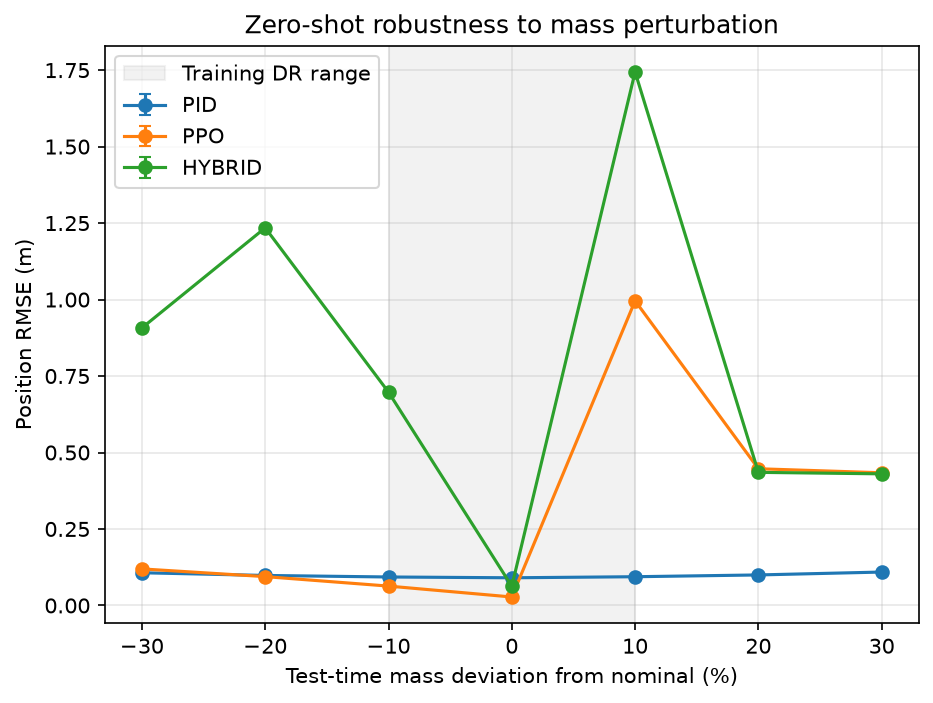
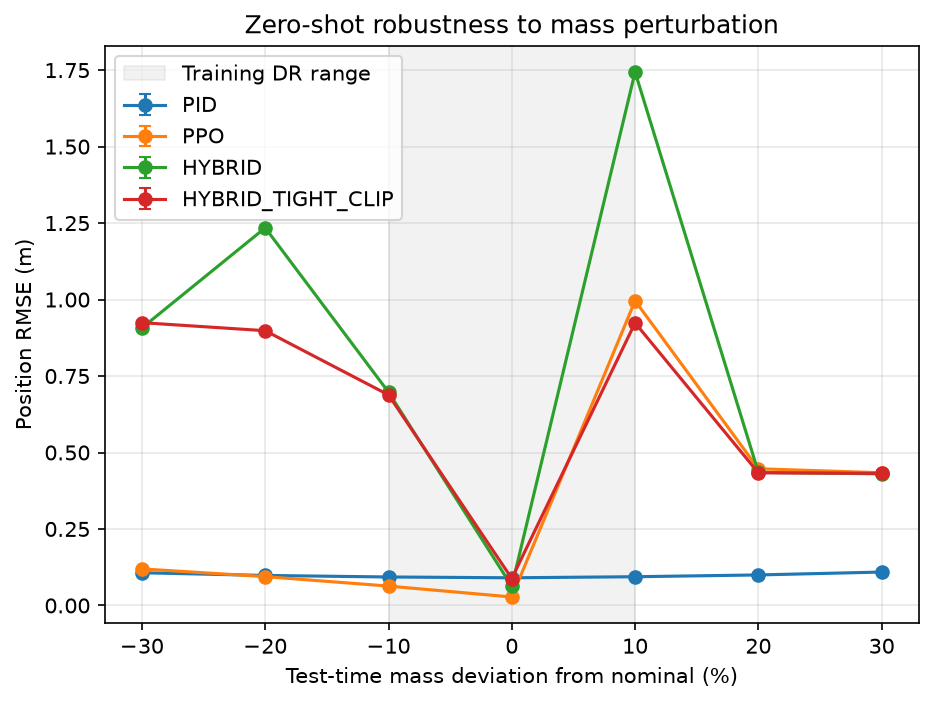
Ablation: tighter residual clip does not close the robustness gap
Tested residual_clip_fraction=0.08 (vs the original 0.2) under the same
setup. Training was much more stable (eval-reward std dropped from +-108.9
to +-9.4), but zero-shot robustness barely changed: it roughly halved the
single worst spike (+10% mass) but left every other point 5-15x worse than
PID, statistically indistinguishable from the clip=0.2 run elsewhere.

This rules out the residual bound as the dominant cause and points instead
at training budget / reward shaping as the more likely explanation -- a
narrower, better-supported conclusion than before the ablation.

Added scripts/evaluate_ablation.py (appends a labeled controller's sweep
to the existing CSV without rerunning or overwriting prior results) and
fixed a color collision in make_plots.py (a 4th unlisted controller was
silently reusing PID's color).

diff --git a/scripts/evaluate_ablation.py b/scripts/evaluate_ablation.py
@@ -1,0 +1,76 @@
+"""Appends one more controller's robustness-sweep results to an existing
+results/robustness_sweep.csv, under a custom label. Used for ablations (e.g.
+config/hybrid_tight_clip.yaml) without re-running PID/PPO/original-Hybrid,
+and without modifying evaluate_robustness.py's three-controller CLI.
+
+Reuses the exact same mass scales, episode count, and seed scheme as
+evaluate_robustness.py so the new controller is directly comparable to the
+rows already in the CSV. scripts/make_plots.py groups dynamically by
+whatever controller labels are present, so a 4th label just adds a 4th line
+to the plot automatically.
+
+Usage
+-----
+    python scripts/evaluate_ablation.py \
+        --label hybrid_tight_clip \
+        --model results/hybrid_tight_clip/best_model.zip \
+        --config config/hybrid_tight_clip.yaml \
+        --mass-scales 0.7 0.8 0.9 1.0 1.1 1.2 1.3 \
+        --episodes 10
+"""
+import os
+import sys
+import csv
+import argparse
+
+sys.path.insert(0, os.path.join(os.path.dirname(__file__), '..'))
+sys.path.insert(0, os.path.dirname(__file__))
+
+from stable_baselines3 import PPO
+
+from src.train_utils import load_config
+from evaluate_robustness import run_rl_episode
+
+
+def main():
+    parser = argparse.ArgumentParser()
+    parser.add_argument("--label", type=str, required=True,
+                         help="Controller name to write into the CSV (e.g. hybrid_tight_clip)")
+    parser.add_argument("--model", type=str, required=True)
+    parser.add_argument("--config", type=str, required=True)
+    parser.add_argument("--mass-scales", type=float, nargs="+",
+                         default=[0.7, 0.8, 0.9, 1.0, 1.1, 1.2, 1.3])
+    parser.add_argument("--episodes", type=int, default=10)
+    parser.add_argument("--output", type=str, default="results/robustness_sweep.csv")
+    args = parser.parse_args()
+
+    if not os.path.exists(args.model):
+        raise FileNotFoundError(f"{args.model} not found — train it first.")
+
+    cfg = load_config(args.config)
+    model = PPO.load(args.model)
+
+    rows = []
+    for mass_scale in args.mass_scales:
+        for ep in range(args.episodes):
+            seed = 1000 + ep  # matches evaluate_robustness.py's seed scheme
+            res = run_rl_episode(model, mass_scale, hybrid=True,
+                                 env_cfg=cfg["env"],
+                                 residual_clip=cfg["hybrid"]["residual_clip_fraction"],
+                                 seed=seed)
+            rows.append({"controller": args.label, "mass_scale": mass_scale,
+                        "episode": ep, **res})
+        print(f"[evaluate_ablation] {args.label} mass_scale={mass_scale:.2f} done")
+
+    file_exists = os.path.exists(args.output)
+    with open(args.output, "a", newline="") as f:
+        writer = csv.DictWriter(f, fieldnames=["controller", "mass_scale", "episode",
+                                               "rmse", "mean_error", "max_error"])
+        if not file_exists:
+            writer.writeheader()
+        writer.writerows(rows)
+    print(f"[evaluate_ablation] appended {len(rows)} rows to {args.output}")
+
+
+if __name__ == "__main__":
+    main()

diff --git a/scripts/make_plots.py b/scripts/make_plots.py
@@ -42,7 +42,8 @@ def main():
         grouped[r["controller"]][float(r["mass_scale"])].append(float(r["rmse"]))
 
     fig, ax = plt.subplots(figsize=(7, 5))
-    colors = {"pid": "tab:blue", "ppo": "tab:orange", "hybrid": "tab:green"}
+    colors = {"pid": "tab:blue", "ppo": "tab:orange", "hybrid": "tab:green",
+              "hybrid_tight_clip": "tab:red"}
     for controller, by_mass in grouped.items():
         mass_scales = sorted(by_mass.keys())
         means = np.array([np.mean(by_mass[m]) for m in mass_scales])

diff --git a/docs/results.md b/docs/results.md
@@ -72,6 +72,39 @@ So the hybrid controller did not inherit PID's robustness; if anything, adding t
 learned residual made the combined controller *less* robust than PID alone across
 most of the tested range.
 
+### 3.1 Ablation: does a tighter residual bound close the gap?
+
+Section 4 flagged `residual_clip_fraction=0.2` as a likely cause and proposed testing
+a tighter bound. Ran the identical setup with `residual_clip_fraction=0.08`
+(`config/hybrid_tight_clip.yaml`, everything else unchanged) and re-swept the same 7
+mass scales, 10 episodes each.
+
+| mass_scale | PID | PPO | Hybrid (clip=0.2) | Hybrid (clip=0.08) |
+|---|---|---|---|---|
+| 0.70 | 0.107 | 0.120 | 0.907 | 0.924 |
+| 0.80 | 0.098 | 0.094 | 1.234 | 0.898 |
+| 0.90 | 0.093 | 0.063 | 0.697 | 0.688 |
+| 1.00 (nominal) | 0.090 | 0.028 | 0.063 | 0.088 |
+| 1.10 | 0.094 | 0.996 | 1.744 | 0.924 |
+| 1.20 | 0.100 | 0.447 | 0.435 | 0.434 |
+| 1.30 | 0.109 | 0.434 | 0.432 | 0.432 |
+
+**Result: tightening the clip did not close the gap.** It roughly halved the single
+worst spike (1.744 → 0.924 at +10% mass, now in line with PPO at that point rather
+than far worse), but everywhere else the tight-clip hybrid is statistically
+indistinguishable from the original clip=0.2 hybrid, and both remain 5-15x worse than
+PID across most of the range. Training was also notably more stable at the tighter
+clip (final-eval reward std dropped from ±108.9 to ±9.4, see section 1), so the
+tighter bound does produce a better-behaved *training process* — it just doesn't
+translate into better *zero-shot robustness*.
+
+This rules out `residual_clip_fraction` as the dominant cause. The more likely
+explanation is the second one listed in section 4: the training budget and/or reward
+shaping isn't enough for the residual policy to learn when to defer to PID versus
+correct it, regardless of how tightly the residual's magnitude is bounded. That
+conclusion is itself informative and narrows the explanation space for future work,
+even though the specific fix tried here didn't work.
+
 ## 4. Discussion
 
 **H1 (robustness) — rejected by this run.** The predicted mechanism was that the PID
@@ -80,10 +113,10 @@ residual appears to actively destabilize that floor outside a narrow band around
 training conditions: Hybrid underperforms plain PID everywhere except exactly at
 nominal mass, including inside its own ±10% training DR range. Plausible causes worth
 investigating before final write-up:
-- `residual_clip_fraction=0.2` (config/hybrid.yaml) may simply be too large — the
-  policy can override up to 20% of PID's commanded RPM per motor, which may be enough
-  to meaningfully destabilize a controller that is otherwise quite well-behaved. Worth
-  re-running with a smaller clip (e.g. 0.05-0.1) to see if robustness improves.
+- ~~`residual_clip_fraction=0.2` may simply be too large~~ — **tested and ruled out**,
+  see section 3.1: a 0.08 clip produced a much more stable training process but did
+  not meaningfully improve zero-shot robustness, so the clip bound is not the
+  dominant cause.
 - 500k timesteps on CPU may not be enough for the hybrid policy to learn a *refinement*
   of PID rather than noisy interference — PPO's own learning curve suggests the
   RPM-level control task is already hard to learn cleanly in this budget (see section
